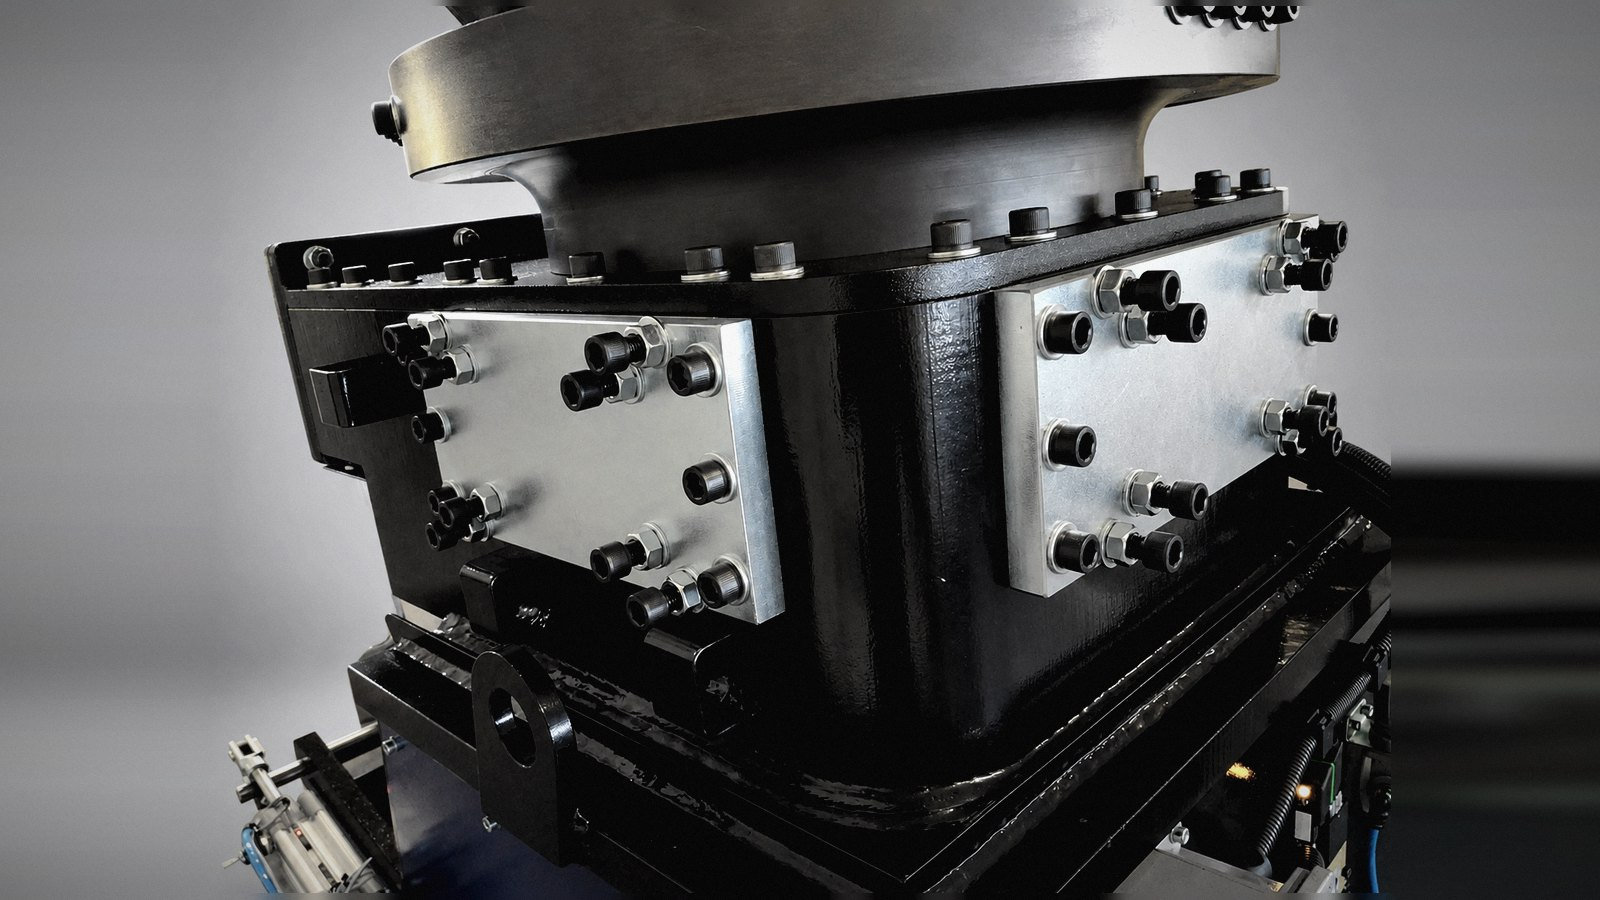
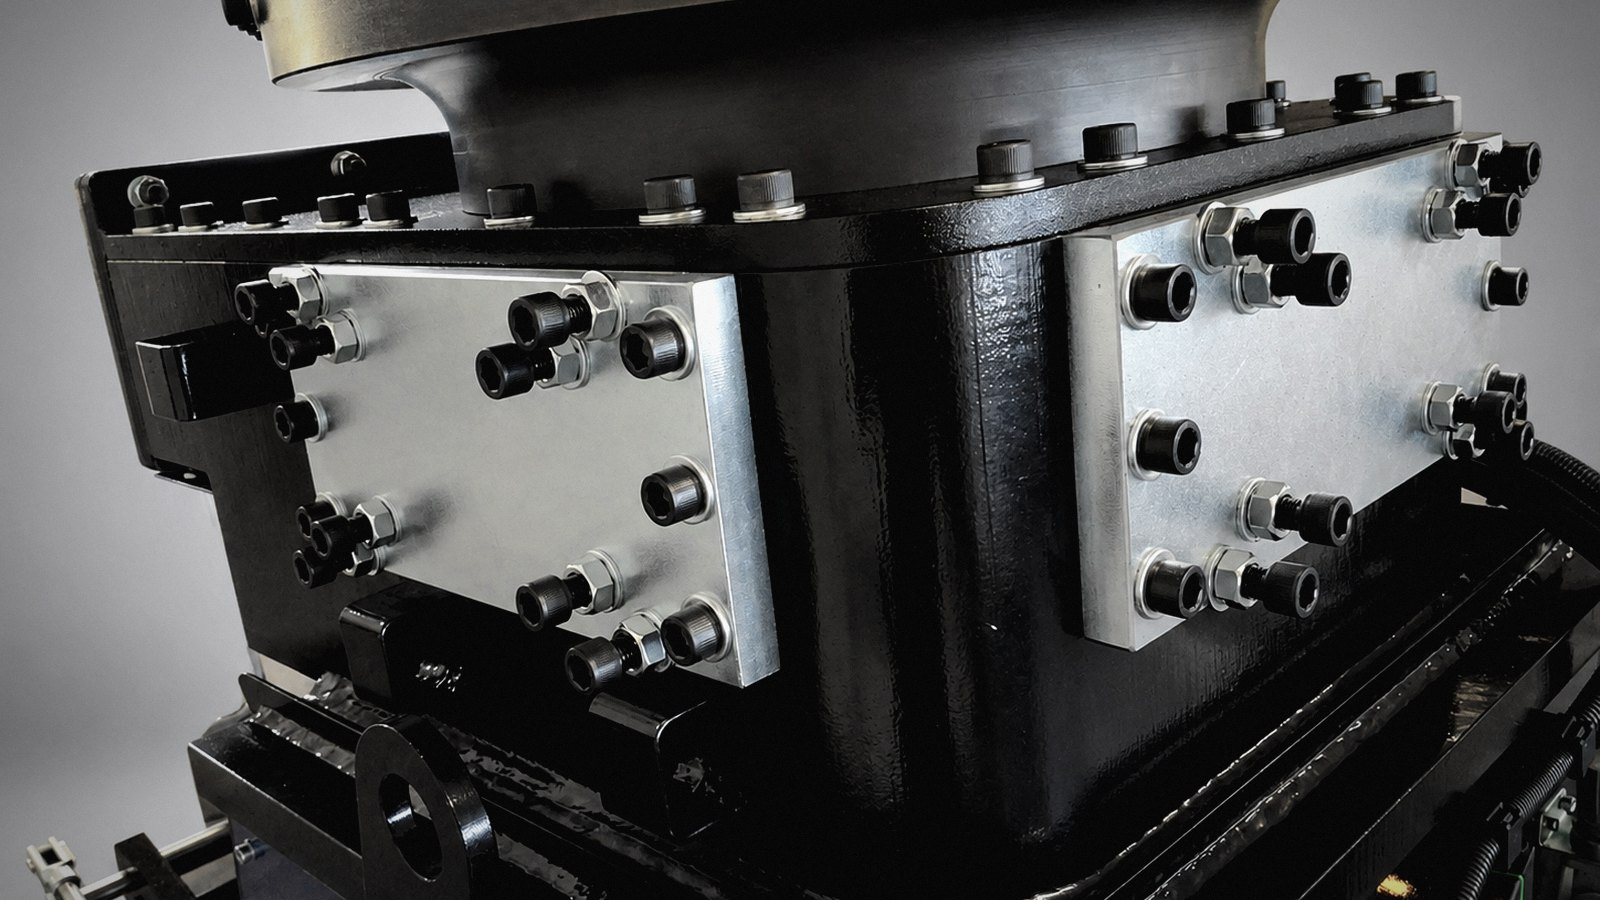
Via la dissolvenza laterale dalle fotografie dei trituratori
Allungavo i bordi della figura per riempire il 16:9, ma dove la macchina
arriva al bordo quello stiramento la trascina in una scia orizzontale: si
vedeva, e non somigliava a niente di fotografico.

Ora la scelta dipende da dove arriva la macchina. Se tocca i lati si fa un
taglio pieno: la figura copre tutto il fotogramma ed esce dai bordi in alto
e in basso, come in una fotografia vera, e il taglio si centra sul soggetto
invece che sull'immagine. Se ai lati c'e' fondo, quello si prolunga riga per
riga prendendo il colore da una fascia di bordo — li' non c'e' macchina da
stirare, e l'attacco non si vede.

Sette immagini passano al taglio pieno, cinque al fondo prolungato. Fra
quelle segnalate, il rotore, il corpo bullonato e lo scarico del truciolo
sono tutte e tre nel primo gruppo.

diff --git a/README.md b/README.md
@@ -148,8 +148,16 @@ fotografati.
    macchina: si misura il suo ingombro e si taglia li'. Cosi' la figura passa
    dal riempire meta' fotogramma a occuparne il 70-98%. Sugli scatti di reparto
    il fondo non aiuta e il riquadro e' scritto a mano in `TAGLI`.
-2. **Riempimento.** Gli originali sono 4:3: i bordi della figura si allungano
-   fino ai lati della tela invece di lasciare bande.
+2. **Riempimento.** Gli originali sono 4:3 e la fascia e' 16:9, quindi manca
+   larghezza. La scelta dipende da dove arriva la macchina:
+   - **arriva ai lati** → taglio pieno. La figura copre tutto il fotogramma e
+     esce dai bordi in alto e in basso, come in una fotografia vera. Il taglio
+     si centra sul soggetto, non sull'immagine.
+   - **ai lati c'e' fondo** → si prolunga il fondo, riga per riga, prendendo il
+     colore da una fascia di bordo e non da un pixel solo.
+
+   La distinzione conta: allungare un bordo dove passa la macchina la stira in
+   una scia orizzontale. Era il difetto della prima versione.
 3. **Luce.** Una curva scurisce i medi — cioe' il fondo da studio — e apre i
    neri (gamma 1,16), con un filo di contrasto. Non tocca la tinta: nessuna
    desaturazione, nessuna dominante.
